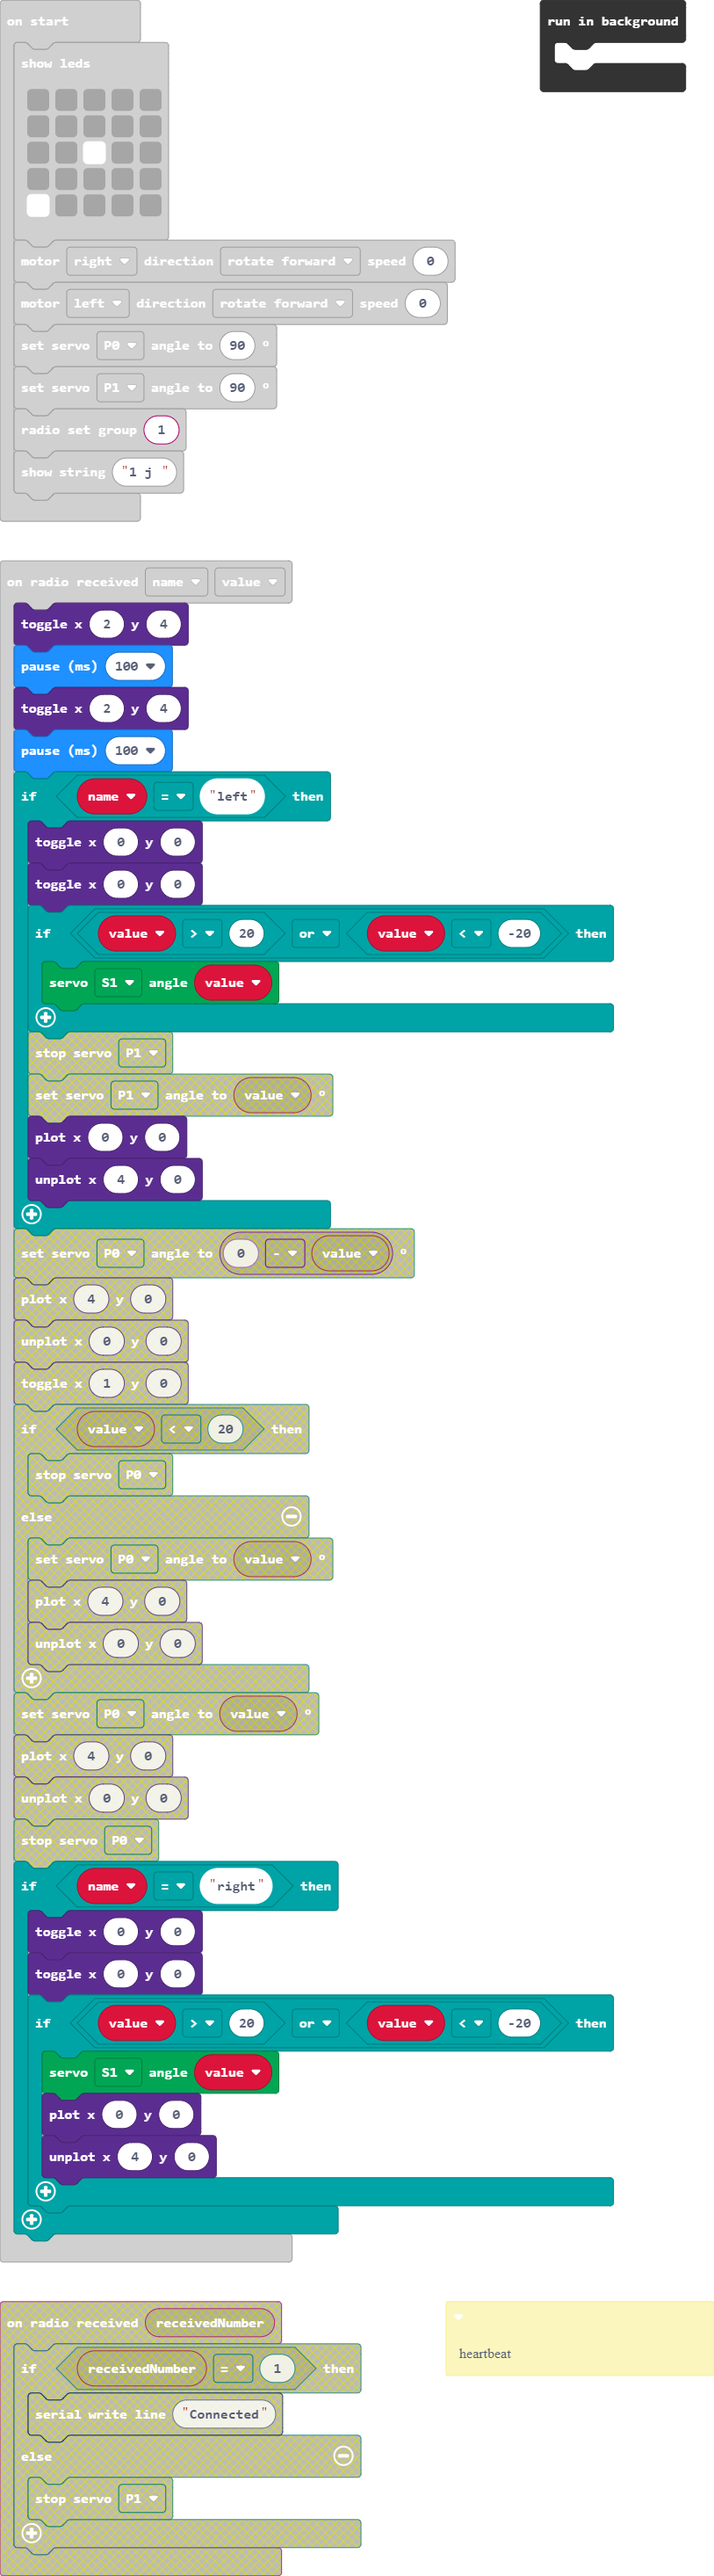
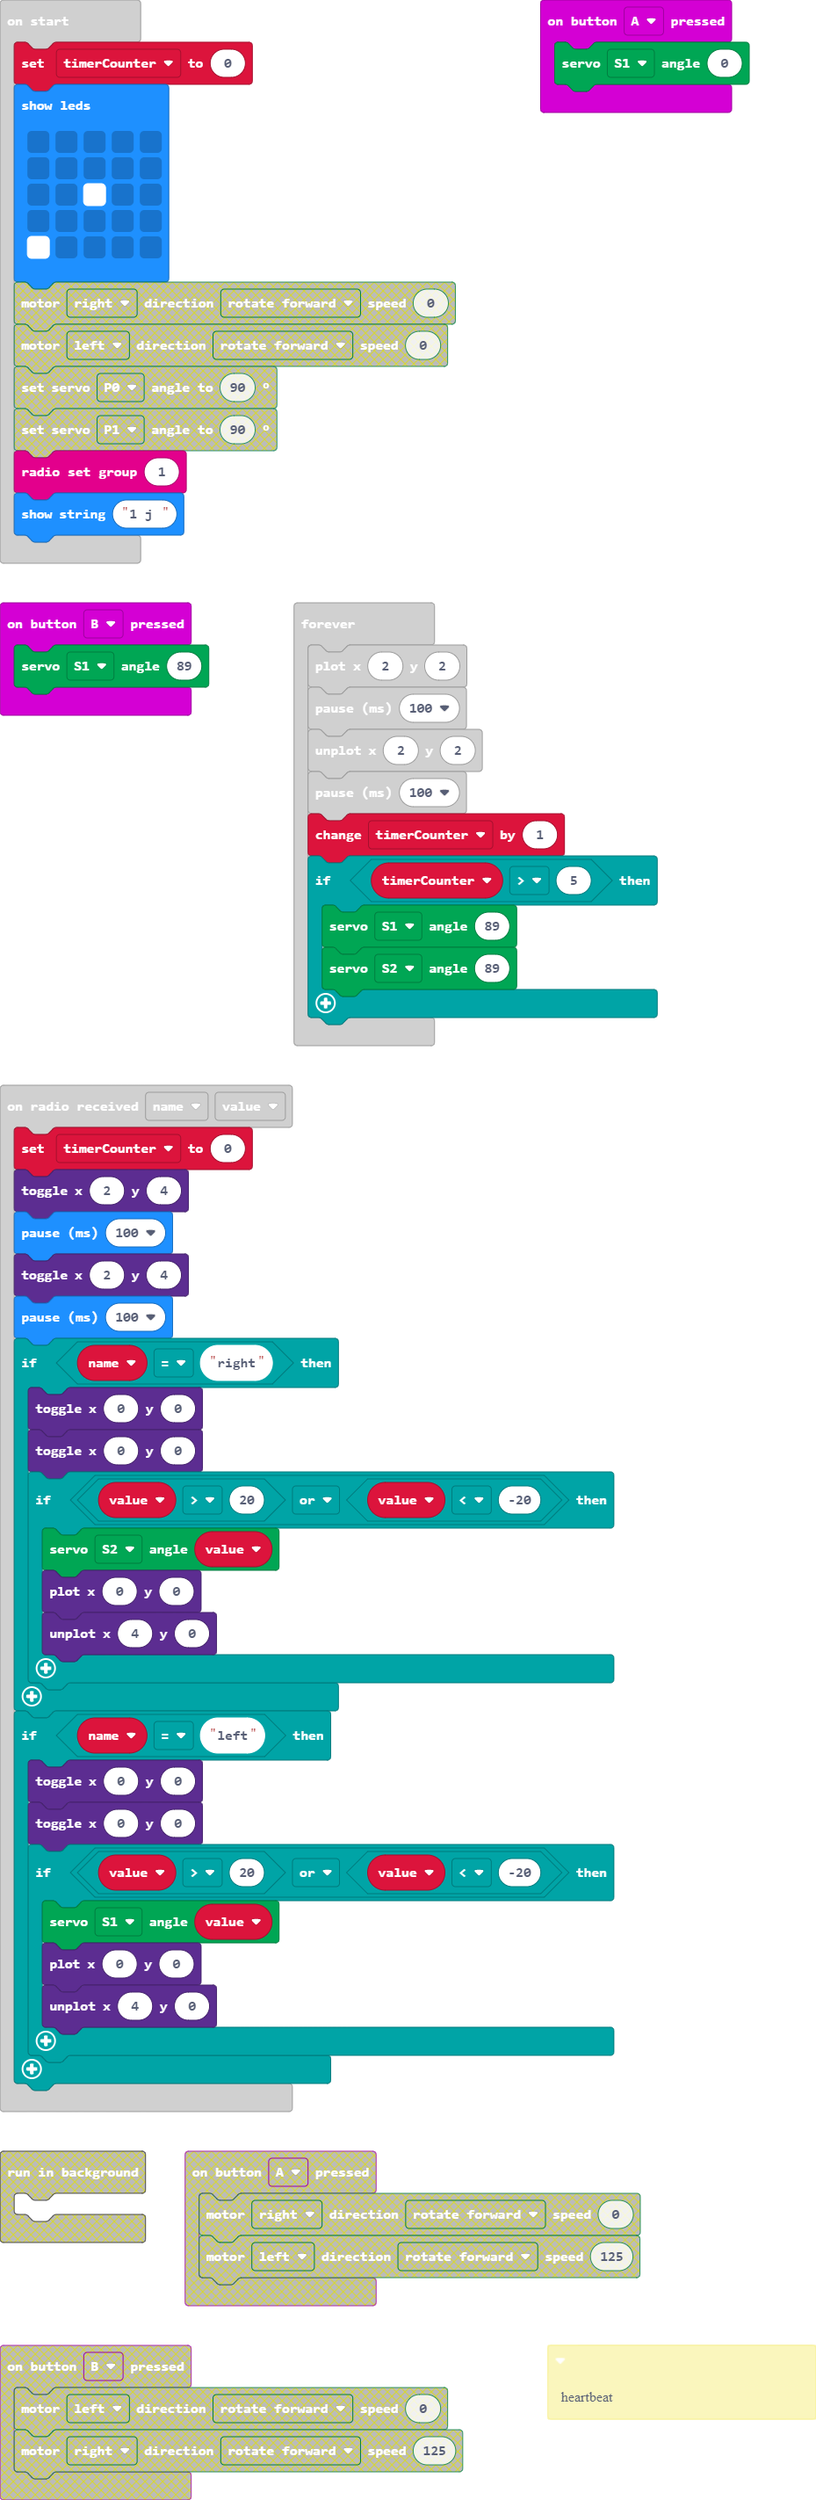
connection loss fixed

diff --git a/main.ts b/main.ts
@@ -1,18 +1,19 @@
 radio.onReceivedValueDeprecated(function (name, value) {
+    timerCounter = 0
     led.toggle(2, 4)
     basic.pause(100)
     led.toggle(2, 4)
     basic.pause(100)
-    if (name == "left") {
+    if (name == "right") {
         led.toggle(0, 0)
         led.toggle(0, 0)
         if (value > 20 || value < -20) {
-            DFRobotMaqueenPlus.servoRun(Servos.S1, value)
+            DFRobotMaqueenPlus.servoRun(Servos.S2, value)
             led.plot(0, 0)
             led.unplot(4, 0)
         }
     }
-    if (name == "right") {
+    if (name == "left") {
         led.toggle(0, 0)
         led.toggle(0, 0)
         if (value > 20 || value < -20) {
@@ -23,13 +24,13 @@ radio.onReceivedValueDeprecated(function (name, value) {
     }
 })
 input.onButtonPressed(Button.A, function () {
-    DFRobotMaqueenPlus.mototRun(Motors.M2, Dir.CW, 0)
-    DFRobotMaqueenPlus.mototRun(Motors.M1, Dir.CW, 125)
+    DFRobotMaqueenPlus.servoRun(Servos.S1, 0)
 })
 input.onButtonPressed(Button.B, function () {
-    DFRobotMaqueenPlus.mototRun(Motors.M1, Dir.CW, 0)
-    DFRobotMaqueenPlus.mototRun(Motors.M2, Dir.CW, 125)
+    DFRobotMaqueenPlus.servoRun(Servos.S1, 89)
 })
+let timerCounter = 0
+timerCounter = 0
 basic.showLeds(`
     . . . . .
     . . . . .
@@ -37,10 +38,6 @@ basic.showLeds(`
     . . . . .
     # . . . .
     `)
-DFRobotMaqueenPlus.mototRun(Motors.M2, Dir.CW, 0)
-DFRobotMaqueenPlus.mototRun(Motors.M1, Dir.CW, 0)
-servos.P0.setAngle(90)
-servos.P1.setAngle(90)
 radio.setGroup(1)
 basic.showString("1 j ")
 /**
@@ -51,7 +48,9 @@ basic.forever(function () {
     basic.pause(100)
     led.unplot(2, 2)
     basic.pause(100)
-})
-control.inBackground(function () {
-	
+    timerCounter += 1
+    if (timerCounter > 5) {
+        DFRobotMaqueenPlus.servoRun(Servos.S1, 89)
+        DFRobotMaqueenPlus.servoRun(Servos.S2, 89)
+    }
 })
